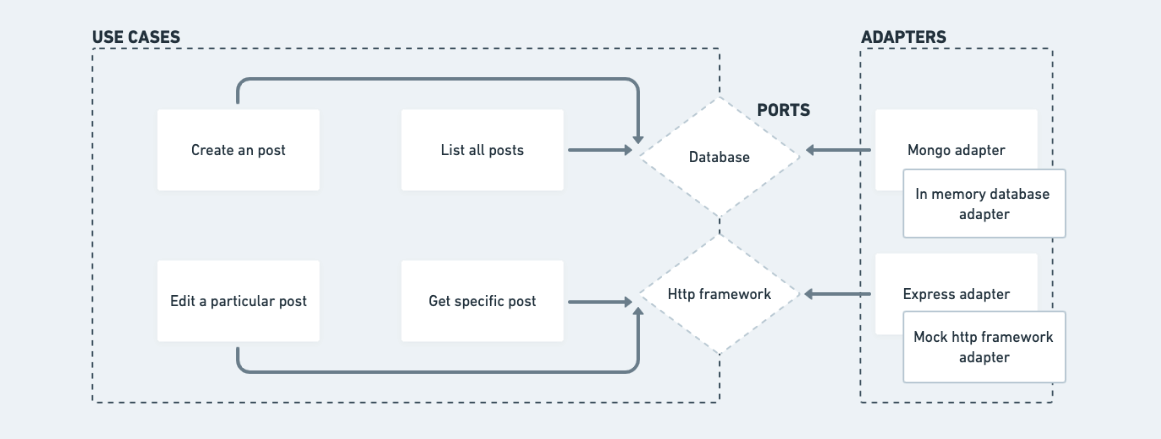
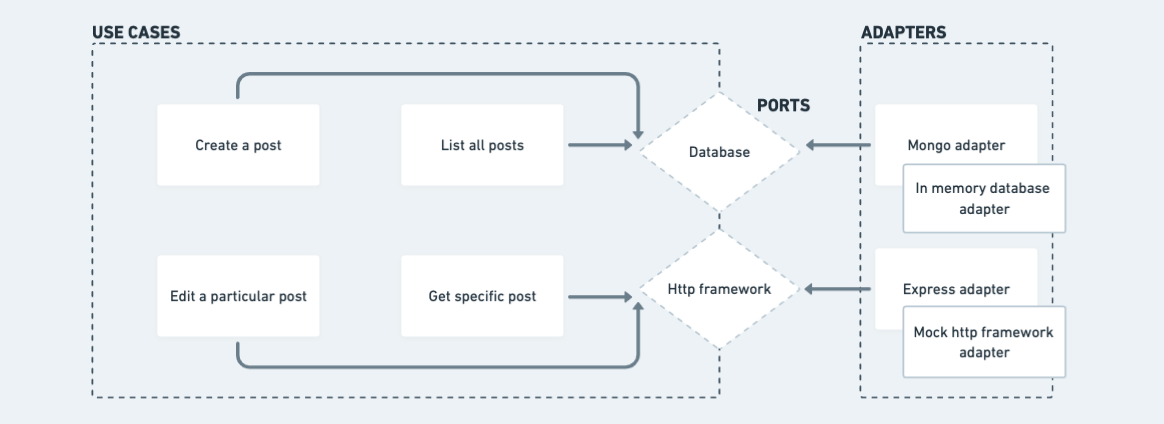
fix: wrong typo

diff --git a/src/usecases/create-an-post/create-a-post.spec.js b/src/usecases/create-an-post/create-a-post.spec.js
@@ -1,4 +1,4 @@
-const createAnPostUseCase = require("./create-an-post");
+const createAPostUseCase = require("./create-a-post");
 const { PostRepositoryInMemoryAdapter } = require("@/adapters/database/in-memory");
 const { HttpFrameworkMockAdapter } = require("@/adapters/http/mock");
 
@@ -11,7 +11,7 @@ const makeSut = () => {
   const makedPostRepositoryInMemoryAdapter = PostRepositoryInMemoryAdapter();
   const makedHttpFramworkMockAdapter = HttpFrameworkMockAdapter();
   const sut = (payload) =>
-    createAnPostUseCase({ payload }, makedPostRepositoryInMemoryAdapter, makedHttpFramworkMockAdapter);
+    createAPostUseCase({ payload }, makedPostRepositoryInMemoryAdapter, makedHttpFramworkMockAdapter);
 
   return {
     sut,
@@ -19,8 +19,8 @@ const makeSut = () => {
   };
 };
 
-describe("Create an post", () => {
-  test("should validate all required properties to create an post", async () => {
+describe("Create a post", () => {
+  test("should validate all required properties to create a post", async () => {
     const { sut } = makeSut();
 
     const wrongFixture = {
@@ -33,7 +33,7 @@ describe("Create an post", () => {
     await expect(testable).rejects.toThrow(new Error("Received publication to be wrong"));
   });
 
-  test("should call repository correctly to create an post", async () => {
+  test("should call repository correctly to create a post", async () => {
     const { sut, makedPostRepositoryInMemoryAdapter } = makeSut();
 
     const spyCreate = jest.spyOn(makedPostRepositoryInMemoryAdapter, "create");

diff --git a/src/usecases/create-an-post/create-a-post.js b/src/usecases/create-an-post/create-a-post.js
@@ -3,7 +3,7 @@ const { HttpFrameworkPort } = require("@/ports/http-framework");
 const { validateReceivedPublication } = require("../helpers");
 const { createAnPostDTO } = require("./dto");
 
-const createAnPostUseCase = async (
+const createAPostUseCase = async (
   { payload = createAnPostDTO },
   postRepository = PostRepositoryPort,
   { ok, serverError } = HttpFrameworkPort
@@ -17,4 +17,4 @@ const createAnPostUseCase = async (
   }
 };
 
-module.exports = createAnPostUseCase;
+module.exports = createAPostUseCase;

diff --git a/src/usecases/index.js b/src/usecases/index.js
@@ -1,5 +1,5 @@
 const { listAllPostsUseCase } = require("./list-all-posts");
-const { createAnPostUseCase } = require("./create-an-post");
+const { createAPostUseCase } = require("./create-an-post");
 const { editAParticularPostUseCase } = require("./edit-a-particular-post");
 
-module.exports = { listAllPostsUseCase, createAnPostUseCase, editAParticularPostUseCase };
+module.exports = { listAllPostsUseCase, createAPostUseCase, editAParticularPostUseCase };

diff --git a/src/usecases/create-an-post/index.js b/src/usecases/create-an-post/index.js
@@ -1,3 +1,3 @@
-const createAnPostUseCase = require("./create-an-post");
+const createAPostUseCase = require("./create-a-post");
 
-module.exports = { createAnPostUseCase };
+module.exports = { createAPostUseCase };

diff --git a/requirements/create-a-post.md b/requirements/create-a-post.md
@@ -1,4 +1,4 @@
-<h1 align="center">#0001 Create an post</h1>
+<h1 align="center">#0001 Create a post</h1>
 
 <h3>CHARACTERISTIC INFORMATION</h3>
 
